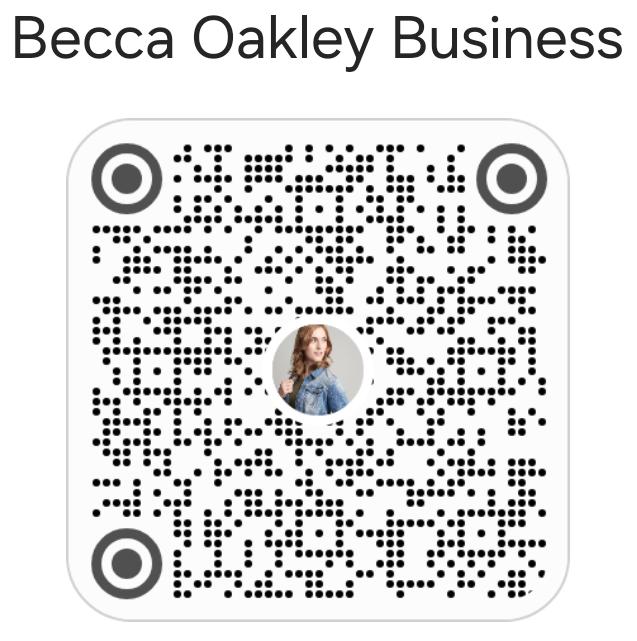
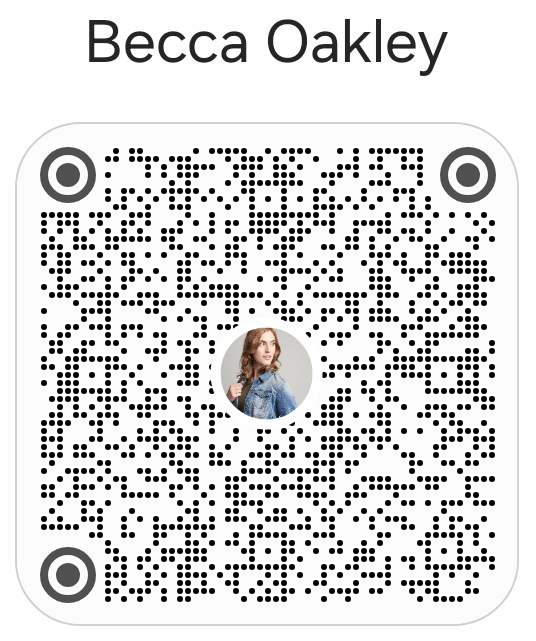
Add files via upload

diff --git a/contact.html b/contact.html
@@ -44,16 +44,16 @@
     <div class="centered-wrapper">
     <h4 class="boxed-heading">Personal Links:</h4>
       <br>
-      <a href="http://www.linkedin.com/in/thatgirlbecca">
+      <a href="http://www.linkedin.com/in/thatgirlbecca" target="_blank">
         <img src="Linkedinicon.png" alt="LinkedIn icon by Icons8" class="icon"></i>My LinkedIn
       </a>
       <br>
-      <a href="https://www.pinterest.com/Thatgirlbecca/">
+      <a href="https://www.pinterest.com/Thatgirlbecca/" target="_blank">
         <img src="Pinteresticon.png" alt="Pinterest icon by Icons8" class="icon"></i>My Pinterest
       </a>
       <br>
       <br>
-      <img src="BeccaContactQR.png" alt="Becca Contact QR" class="QRImg"><i>
+      <img src="BeccaContactQR.png" alt="Becca Contact QR" class="QRImg" title="Scan this to add Becca as a contact!"><i>
     </div>
   </main>
 <footer>

diff --git a/now.html b/now.html
@@ -26,13 +26,14 @@
       <h2>Here's what I'm currently working on</h2>
     </div>
     <ol>
-      <li><a href="index.html" target="_blank">This Website!
+      <li><a href="index.html" target="_blank">This Website!</a>
         <ul>
-          <li>Adding a blog function, along with this Now page, and a Contact page</li>
+          <li>Adding a blog function, along with this Projects page, and a Contact page</li>
         </ul>
       </li>
       <li><a href="https://www.waypointmarinesales.com/" 
         target="_blank">Waypoint Marine Sales</a></li>
+      
     </ol>
   </main>
 </body>
